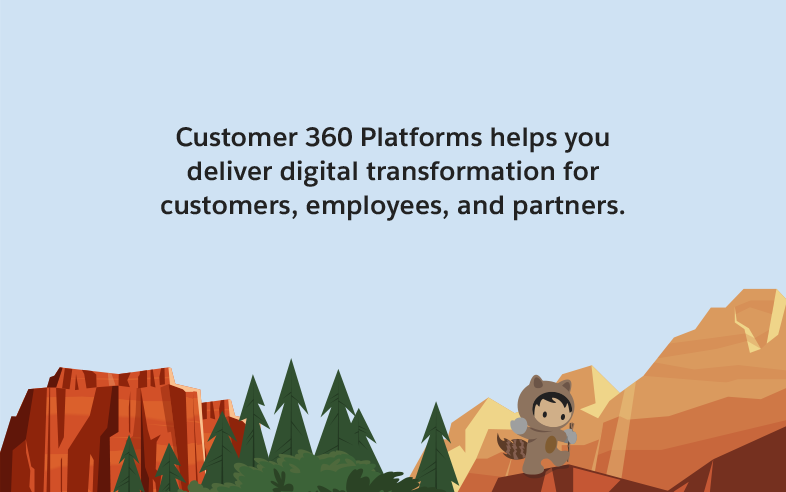
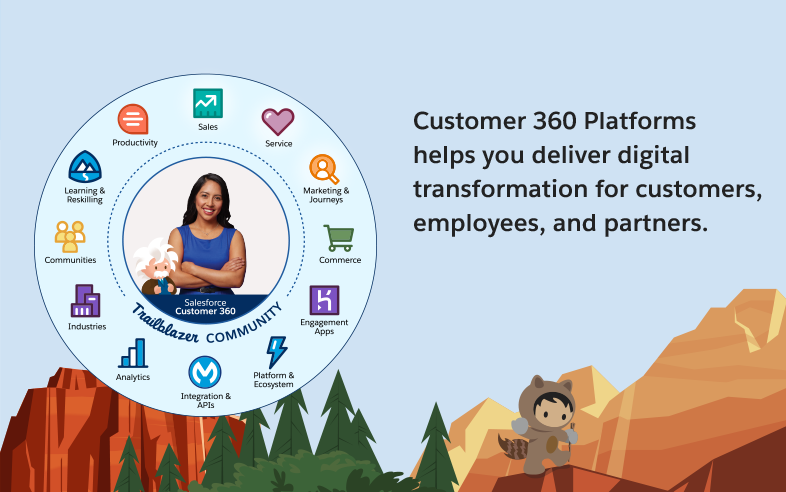
Updated first slide of outro with new comp and button positions

Changed region(s): [[0.0611, 0.122, 0.9771, 0.8537], [0.6718, 0.7622, 0.7328, 0.9146], [0.6412, 0.8537, 0.6718, 0.9451]]

diff --git a/src/styles/_outro.scss b/src/styles/_outro.scss
@@ -19,8 +19,6 @@
       position: absolute;
       bottom: 190px;
       align-items: center;
-      justify-content: center;
-      width: 100%;
       .btn {
         background: #e67300;
         color: #ffffff;
@@ -32,6 +30,7 @@
   }
   .recap-0 {
     .recap-buttons {
+      left: 414px;      
       .text {
         color: #000000;
         i {
@@ -54,6 +53,8 @@
   .recap-1 {
     .recap-buttons {
       bottom: 100px;
+      justify-content: center;
+      width: 100%;
     }
   }
 }
